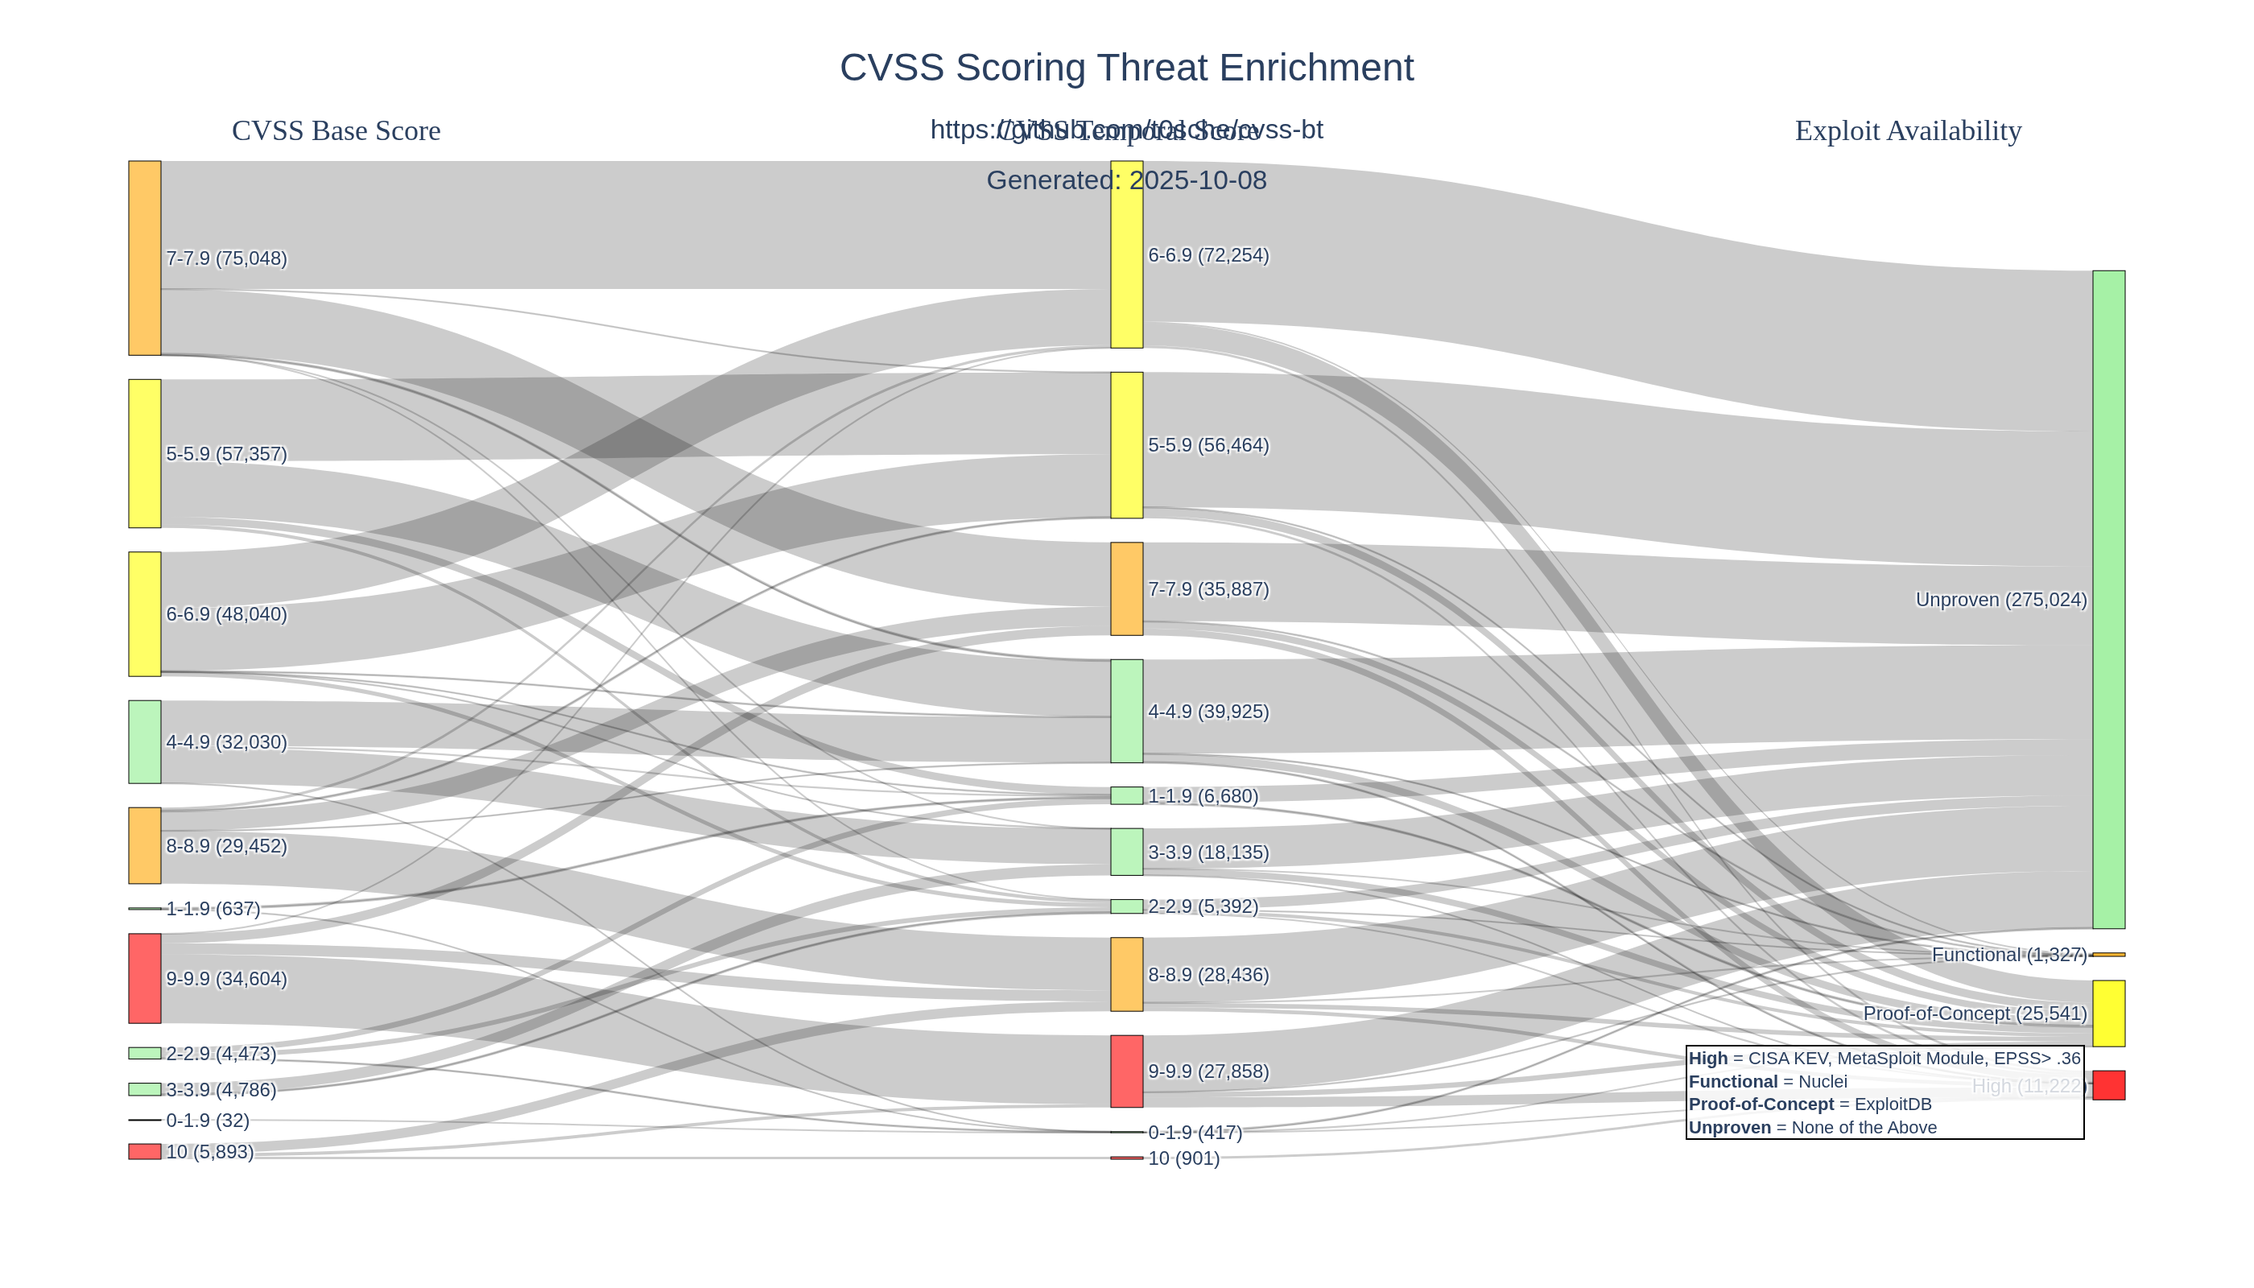
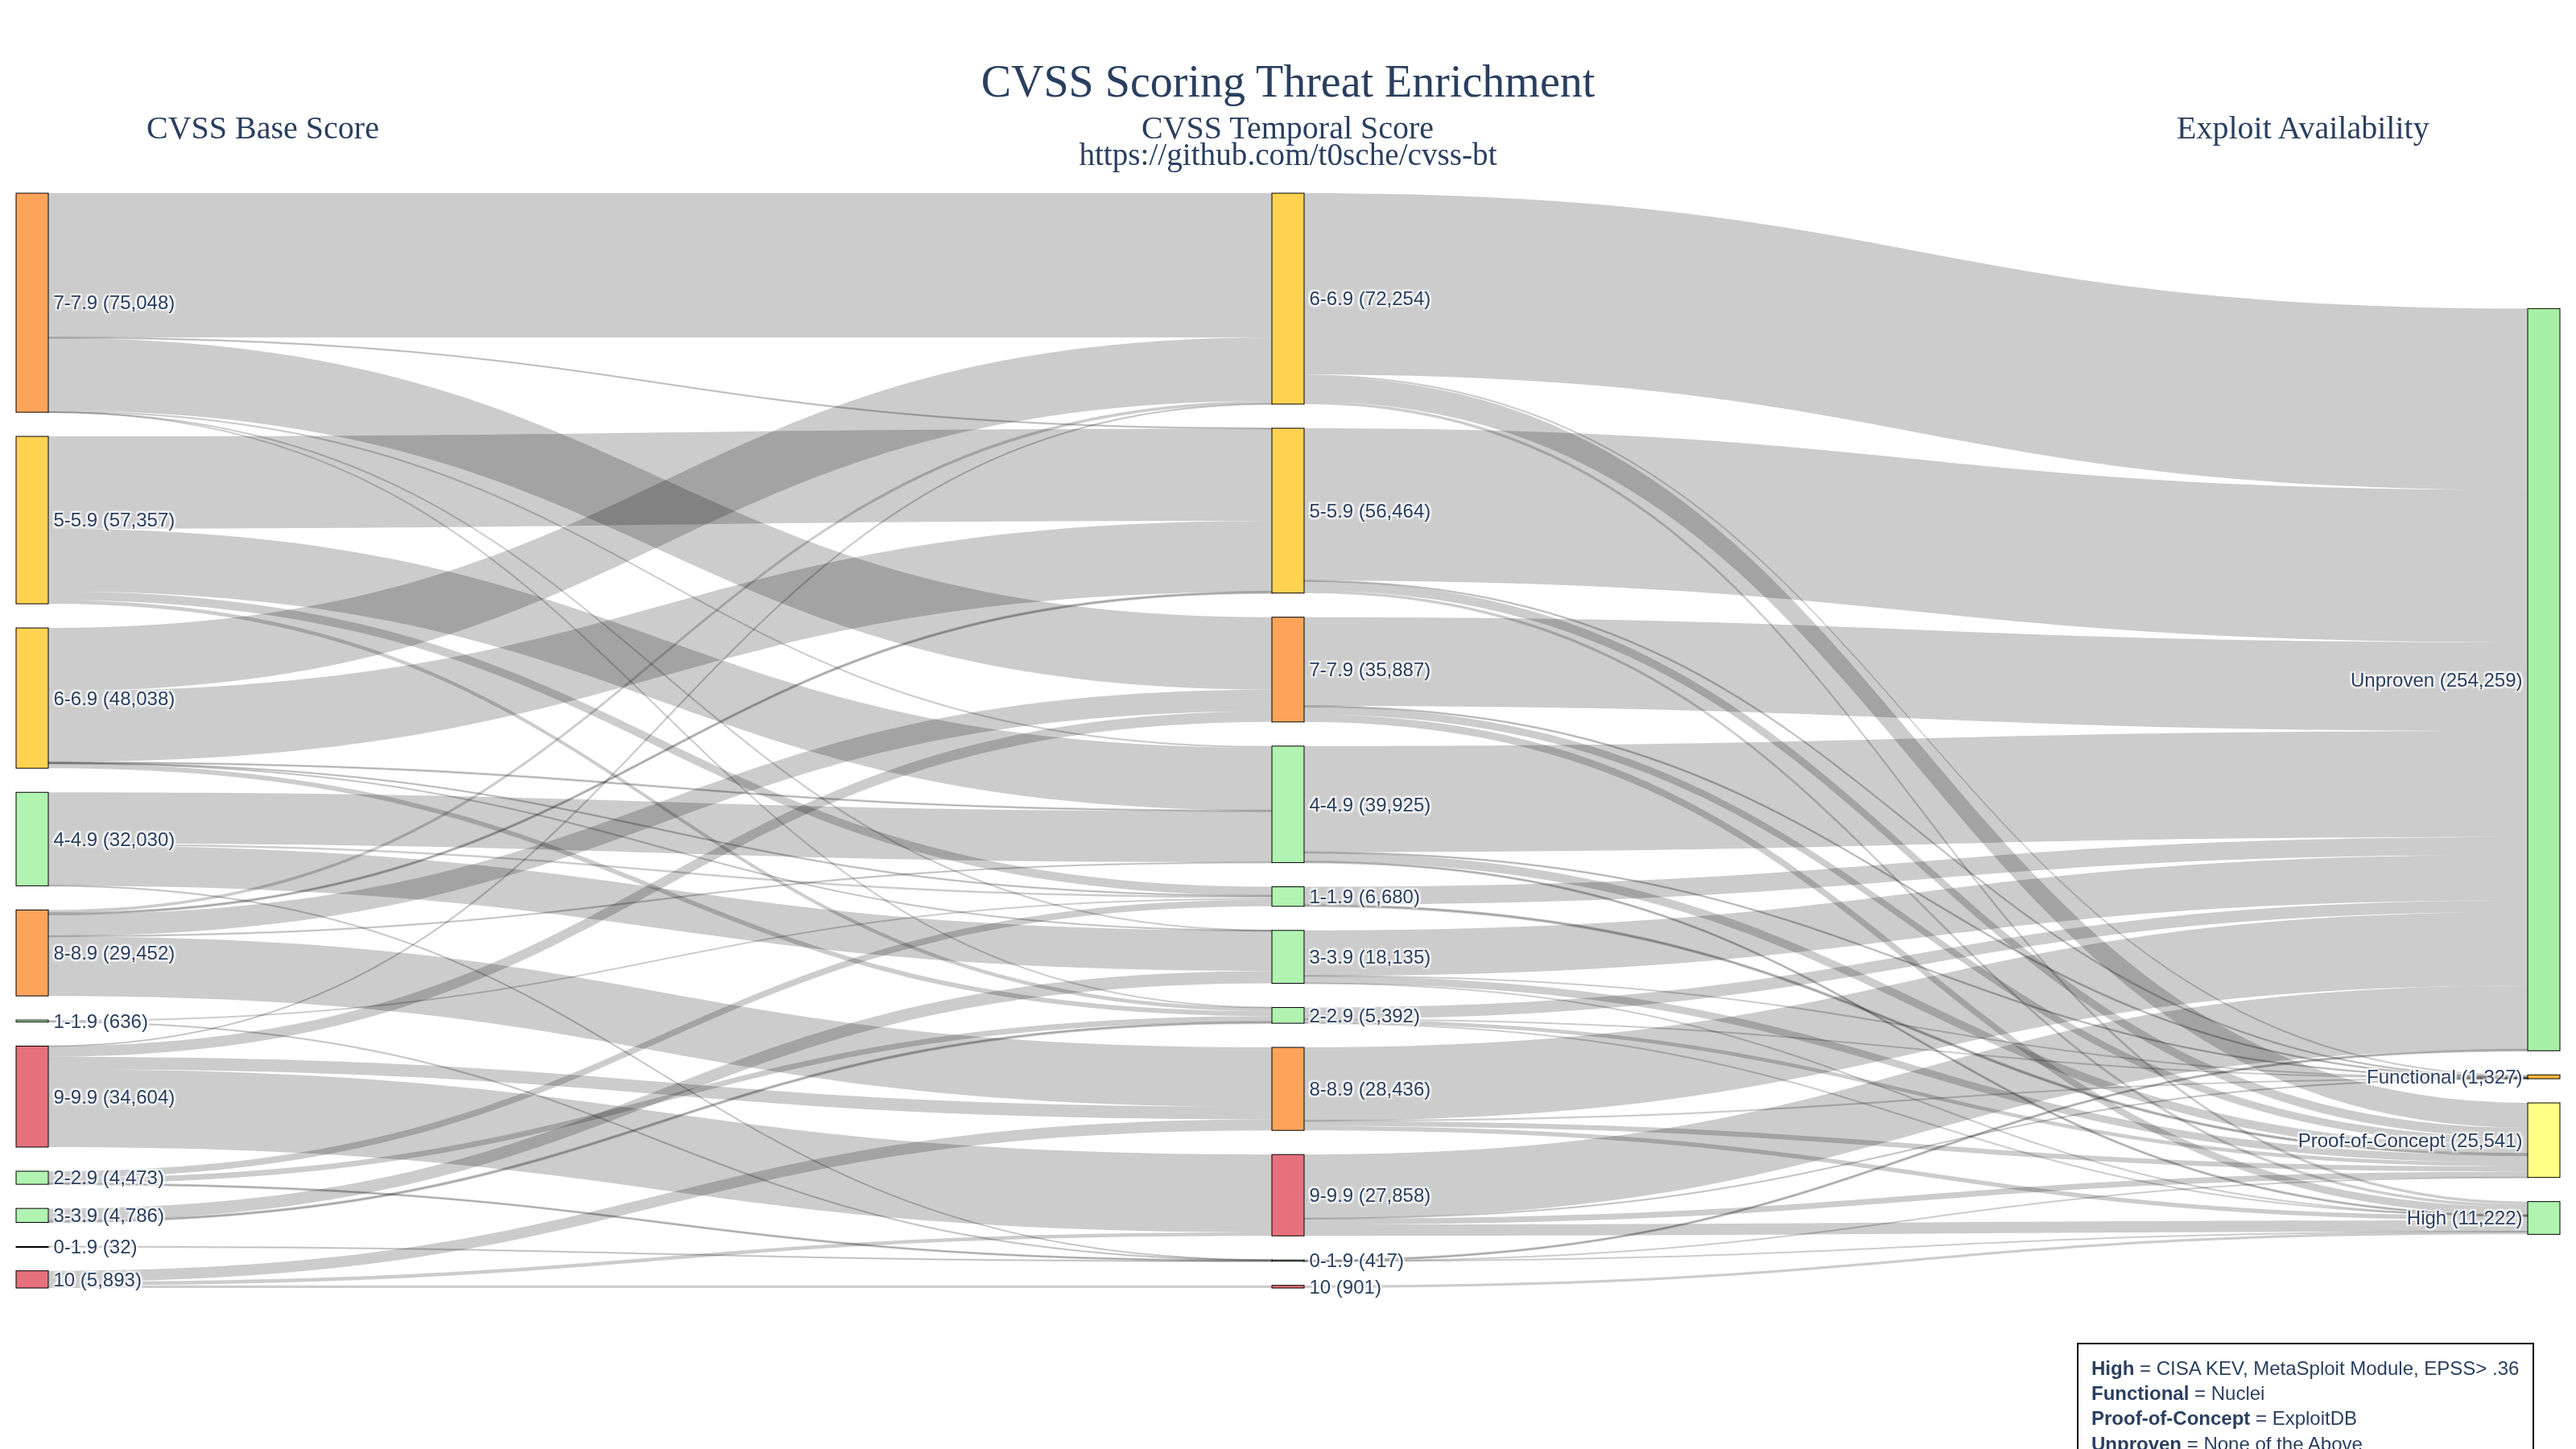
Improve Sankey diagram styling and layout

diff --git a/code/generate_sankey.py b/code/generate_sankey.py
@@ -34,7 +34,7 @@ df['exploit_category'] = df.apply(map_exploit_maturity, axis=1)
 def get_base_severity_range(score):
     """Categorize base scores into ranges"""
     if pd.isna(score):
-        return 'Unknown'
+        return None
     score = float(score)
     if score == 10:
         return '10'
@@ -65,11 +65,11 @@ df['base_range'] = df['base_score'].apply(get_base_severity_range)
 def get_temporal_severity_range(score):
     """Categorize temporal scores into ranges"""
     if pd.isna(score) or score == 'UNKNOWN':
-        return 'Unknown'
+        return None
     try:
         score = float(score)
     except:
-        return 'Unknown'
+        return None
     
     if score == 10:
         return '10'
@@ -96,6 +96,9 @@ def get_temporal_severity_range(score):
 
 df['temporal_range'] = df['cvss-bt_score'].apply(get_temporal_severity_range)
 
+# Remove rows with None values
+df = df[df['base_range'].notna() & df['temporal_range'].notna()]
+
 # Create flows from base score to temporal score
 base_to_temporal = df.groupby(['base_range', 'temporal_range']).size().reset_index(name='count')
 
@@ -106,23 +109,25 @@ temporal_to_exploit = df.groupby(['temporal_range', 'exploit_category']).size().
 labels = []
 label_to_idx = {}
 
-# Add base score labels
-base_ranges = ['0-1.9', '1-1.9', '2-2.9', '3-3.9', '4-4.9', '5-5.9', '6-6.9', '7-7.9', '8-8.9', '9-9.9', '10']
+# Add base score labels (ordered from high to low)
+base_ranges = ['10', '9-9.9', '8-8.9', '7-7.9', '6-6.9', '5-5.9', '4-4.9', '3-3.9', '2-2.9', '1-1.9', '0-1.9']
 for br in base_ranges:
     if br in base_to_temporal['base_range'].values:
-        label = f"{br} ({df[df['base_range'] == br].shape[0]:,})"
+        count = df[df['base_range'] == br].shape[0]
+        label = f"{br} ({count:,})"
         labels.append(label)
         label_to_idx[('base', br)] = len(labels) - 1
 
-# Add temporal score labels
-temporal_ranges = ['0-1.9', '1-1.9', '2-2.9', '3-3.9', '4-4.9', '5-5.9', '6-6.9', '7-7.9', '8-8.9', '9-9.9', '10']
+# Add temporal score labels (ordered from high to low)
+temporal_ranges = ['10', '9-9.9', '8-8.9', '7-7.9', '6-6.9', '5-5.9', '4-4.9', '3-3.9', '2-2.9', '1-1.9', '0-1.9']
 for tr in temporal_ranges:
     if tr in temporal_to_exploit['temporal_range'].values:
-        label = f"{tr} ({df[df['temporal_range'] == tr].shape[0]:,})"
+        count = df[df['temporal_range'] == tr].shape[0]
+        label = f"{tr} ({count:,})"
         labels.append(label)
         label_to_idx[('temporal', tr)] = len(labels) - 1
 
-# Add exploit category labels
+# Add exploit category labels (ordered from high to low severity)
 exploit_categories = ['High', 'Functional', 'Proof-of-Concept', 'Unproven']
 for ec in exploit_categories:
     count = df[df['exploit_category'] == ec].shape[0]
@@ -150,33 +155,37 @@ for _, row in temporal_to_exploit.iterrows():
         values.append(row['count'])
 
 # Define colors for the nodes based on severity
-colors = []
+# Colors match the reference image: red for critical, orange for high, yellow for medium, green for low
+node_colors = []
 for label in labels:
-    if 'High' in label and '(' in label:
-        colors.append('rgba(255, 0, 0, 0.8)')  # Red for High
+    if 'High (' in label and 'High (' == label.split('(')[0][:6]:  # Exploit category High
+        node_colors.append('rgba(255, 99, 71, 0.8)')  # Red
     elif 'Functional' in label:
-        colors.append('rgba(255, 165, 0, 0.8)')  # Orange for Functional
+        node_colors.append('rgba(255, 165, 0, 0.8)')  # Orange
     elif 'Proof-of-Concept' in label:
-        colors.append('rgba(255, 255, 0, 0.8)')  # Yellow for Proof-of-Concept
+        node_colors.append('rgba(255, 255, 102, 0.8)')  # Yellow
     elif 'Unproven' in label:
-        colors.append('rgba(144, 238, 144, 0.8)')  # Light green for Unproven
-    elif label.startswith('10 ') or label.startswith('9-9.9'):
-        colors.append('rgba(255, 0, 0, 0.6)')  # Red for critical
+        node_colors.append('rgba(144, 238, 144, 0.8)')  # Light green
+    elif label.startswith('10 (') or label.startswith('9-9.9'):
+        node_colors.append('rgba(220, 53, 69, 0.7)')  # Red
     elif label.startswith('8-8.9') or label.startswith('7-7.9'):
-        colors.append('rgba(255, 165, 0, 0.6)')  # Orange for high
+        node_colors.append('rgba(253, 126, 20, 0.7)')  # Orange
     elif label.startswith('6-6.9') or label.startswith('5-5.9'):
-        colors.append('rgba(255, 255, 0, 0.6)')  # Yellow for medium
+        node_colors.append('rgba(255, 193, 7, 0.7)')  # Yellow
+    elif label.startswith('4-4.9') or label.startswith('3-3.9'):
+        node_colors.append('rgba(144, 238, 144, 0.7)')  # Light green
     else:
-        colors.append('rgba(144, 238, 144, 0.6)')  # Green for low
+        node_colors.append('rgba(144, 238, 144, 0.7)')  # Light green for low scores
 
 # Create the Sankey diagram
 fig = go.Figure(data=[go.Sankey(
+    arrangement='snap',
     node=dict(
         pad=15,
         thickness=20,
         line=dict(color='black', width=0.5),
         label=labels,
-        color=colors
+        color=node_colors
     ),
     link=dict(
         source=sources,
@@ -188,67 +197,71 @@ fig = go.Figure(data=[go.Sankey(
 # Update layout
 fig.update_layout(
     title={
-        'text': f"CVSS Scoring Threat Enrichment<br><sub>https://github.com/t0sche/cvss-bt</sub><br><sub>Generated: {datetime.now().strftime('%Y-%m-%d')}</sub>",
+        'text': f"CVSS Scoring Threat Enrichment<br><sub>https://github.com/t0sche/cvss-bt</sub>",
         'x': 0.5,
         'xanchor': 'center',
-        'font': {'size': 24}
+        'font': {'size': 28, 'family': 'Arial Black'}
     },
-    font=dict(size=12),
-    height=800,
-    width=1400
+    font=dict(size=12, family='Arial'),
+    height=900,
+    width=1600,
+    margin=dict(l=10, r=10, t=120, b=100)
 )
 
 # Add annotations for the three columns
 fig.add_annotation(
     text="CVSS Base Score",
     xref="paper", yref="paper",
-    x=0.05, y=1.05,
+    x=0.05, y=1.08,
     showarrow=False,
-    font=dict(size=18, family="Arial Black")
+    font=dict(size=20, family="Arial Black")
 )
 
 fig.add_annotation(
     text="CVSS Temporal Score",
     xref="paper", yref="paper",
-    x=0.5, y=1.05,
+    x=0.5, y=1.08,
     showarrow=False,
-    font=dict(size=18, family="Arial Black")
+    font=dict(size=20, family="Arial Black")
 )
 
 fig.add_annotation(
     text="Exploit Availability",
     xref="paper", yref="paper",
-    x=0.95, y=1.05,
+    x=0.95, y=1.08,
     showarrow=False,
-    font=dict(size=18, family="Arial Black")
+    font=dict(size=20, family="Arial Black")
 )
 
-# Add legend information
+# Add legend information at the bottom
 legend_text = (
-    "<b>High</b> = CISA KEV, MetaSploit Module, EPSS> .36<br>"
-    "<b>Functional</b> = Nuclei<br>"
-    "<b>Proof-of-Concept</b> = ExploitDB<br>"
-    "<b>Unproven</b> = None of the Above"
+    f"<b>High</b> = CISA KEV, MetaSploit Module, EPSS> .36<br>"
+    f"<b>Functional</b> = Nuclei<br>"
+    f"<b>Proof-of-Concept</b> = ExploitDB<br>"
+    f"<b>Unproven</b> = None of the Above"
 )
 
 fig.add_annotation(
     text=legend_text,
     xref="paper", yref="paper",
-    x=0.98, y=0.02,
+    x=0.99, y=-0.05,
     xanchor='right',
+    yanchor='top',
     showarrow=False,
-    font=dict(size=11),
+    font=dict(size=12, family='Arial'),
     align='left',
-    bgcolor='rgba(255, 255, 255, 0.8)',
+    bgcolor='rgba(255, 255, 255, 0.9)',
     bordercolor='black',
-    borderwidth=1
+    borderwidth=1,
+    borderpad=8
 )
 
 # Save the figure
 print("Generating Sankey diagram...")
-fig.write_image('CVSS-BT-Enrichment.png', width=1400, height=800, scale=2)
+fig.write_image('CVSS-BT-Enrichment.png', width=1600, height=900, scale=2)
 print("Sankey diagram saved as CVSS-BT-Enrichment.png")
 
 # Also save as HTML for interactive viewing
 fig.write_html('CVSS-BT-Enrichment.html')
 print("Interactive version saved as CVSS-BT-Enrichment.html")
+
